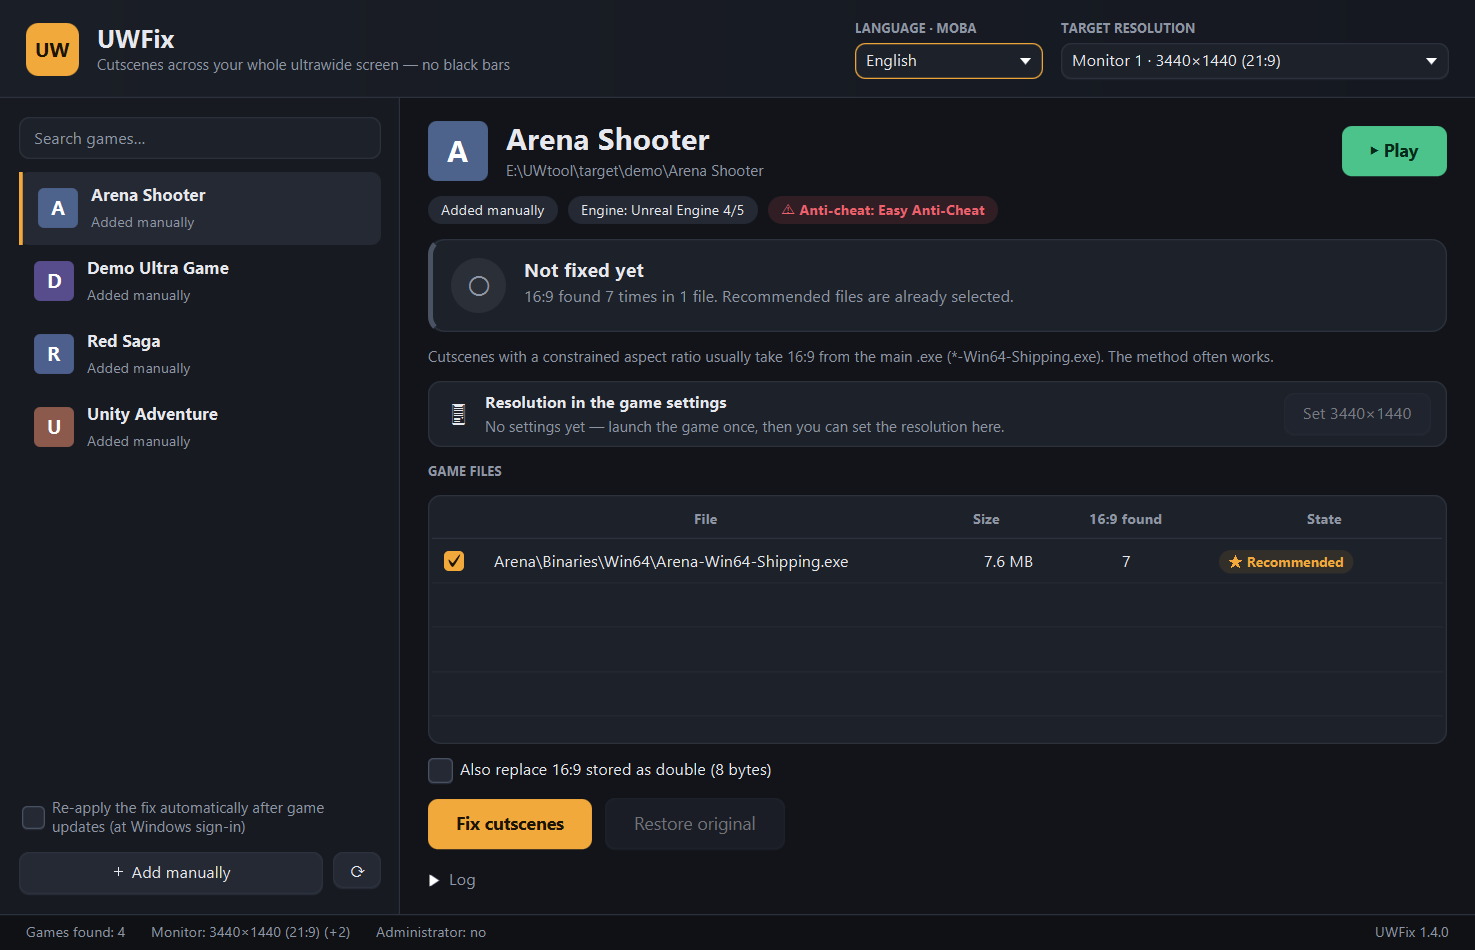
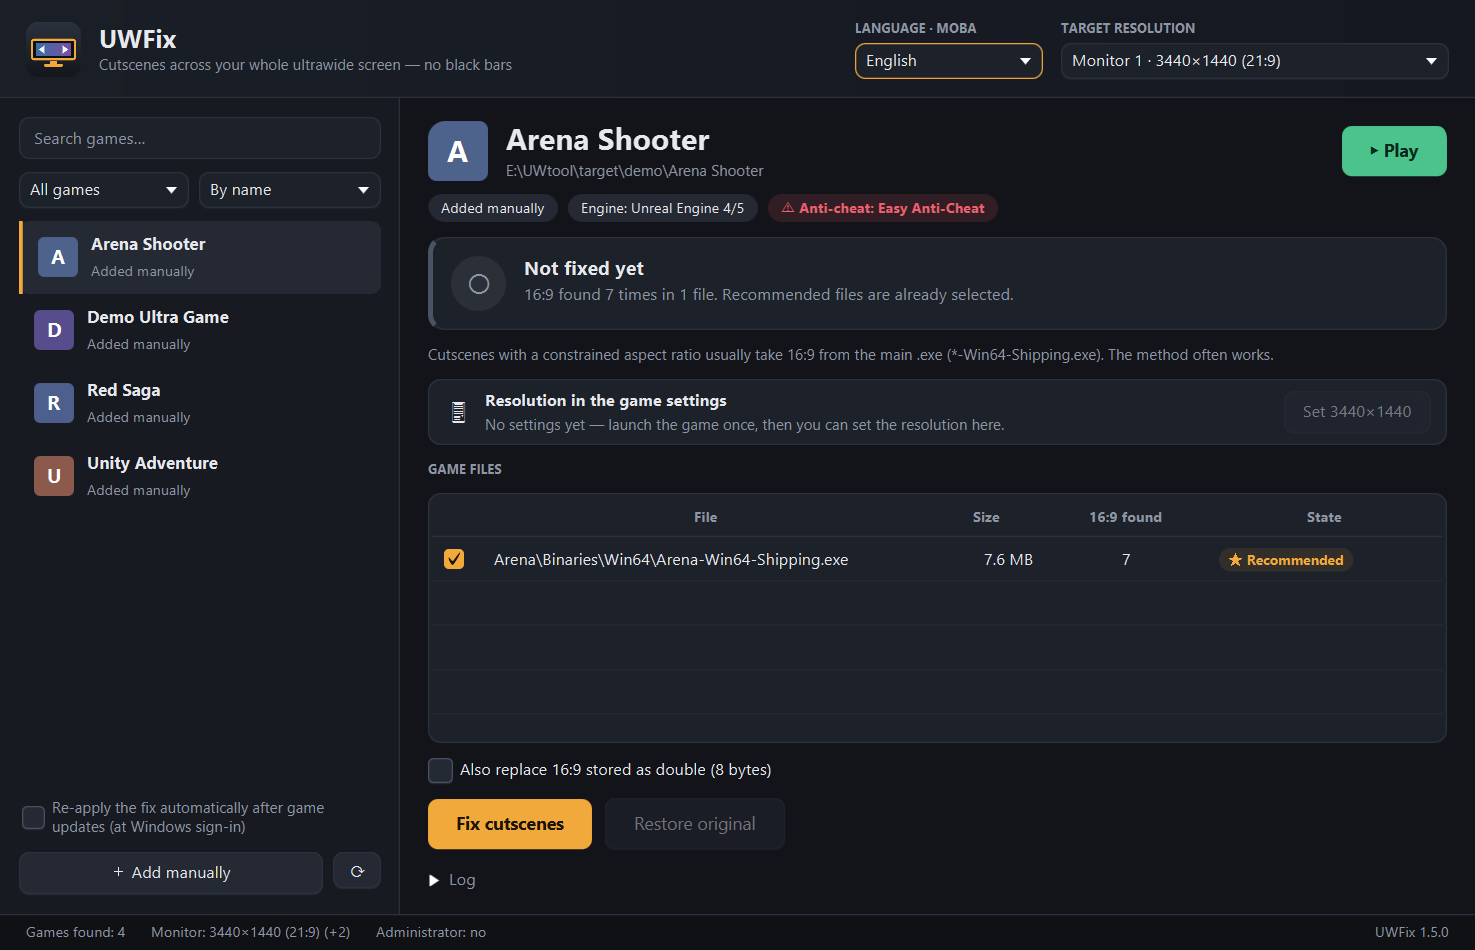
Версія 1.5.0: обкладинки, фільтри й сортування, іконка в шапці
- README: обкладинки ігор, пошук/фільтри/сортування, 157 тестів
- оновлено знімки екрана

diff --git a/README.uk.md b/README.uk.md
@@ -31,7 +31,8 @@ UWFix робить це автоматично й безпечно. **Підхо
 ## Можливості
 
 - **Пошук ігор**: Steam (усі бібліотеки на всіх дисках), Epic Games, GOG, Ubisoft Connect, а також ручне додавання будь-якої папки.
-- **Іконки ігор**: для Steam-ігор — з локального кешу Steam, для інших — прямо з .exe гри (програма сама розбирає таблицю ресурсів формату Windows PE).
+- **Іконки та обкладинки ігор**: для Steam-ігор — іконка, фонове зображення й логотип з локального кешу Steam, для інших — іконка прямо з .exe гри (програма сама розбирає таблицю ресурсів формату Windows PE).
+- **Пошук, фільтри й сортування**: пошук не чутливий до регістру й розділових знаків; показ усіх / виправлених / не виправлених / оновлених ігор; сортування за назвою (за українською абеткою), лаунчером або спершу виправлені.
 - **Визначення моніторів**: усі підключені монітори визначаються автоматично з урахуванням масштабування Windows; можна обрати іншу роздільну здатність або ввести свою.
 - **Аналіз гри**: знаходить .exe і .dll з числом 16:9, відкидає сторонні бібліотеки (Steam API, DirectX, PhysX…), визначає рушій (Unreal Engine 3/4/5, Unity, REDengine) і радить, які файли змінювати.
 - **Безпечна заміна**:
@@ -144,7 +145,7 @@ flowchart LR
 
 ## Тестування
 
-151 модульний тест (JUnit 5): перетворення співвідношень у байти, три алгоритми пошуку (порівняння з еталоном на випадкових даних), потокове сканування з різними розмірами блоку, парсери VDF / .reg / JSON, вибір файлів для різних рушіїв, повний цикл «патч → оновлення гри → повторне застосування → відновлення», пошкоджений файл стану, повнота перекладу (однакові ключі й параметри в обох мовах), порівняння версій і безпечне розпакування оновлень (зокрема архівів зі шляхами за межі папки), видобування іконок із синтетичного PE-файлу (PNG і BMP з маскою прозорості).
+157 модульних тестів (JUnit 5): перетворення співвідношень у байти, три алгоритми пошуку (порівняння з еталоном на випадкових даних), потокове сканування з різними розмірами блоку, парсери VDF / .reg / JSON, вибір файлів для різних рушіїв, повний цикл «патч → оновлення гри → повторне застосування → відновлення», пошкоджений файл стану, повнота перекладу (однакові ключі й параметри в обох мовах), порівняння версій і безпечне розпакування оновлень (зокрема архівів зі шляхами за межі папки), видобування іконок із синтетичного PE-файлу (PNG і BMP з маскою прозорості).
 
 Порівняння алгоритмів на 128 МБ даних, схожих на машинний код (`mvnw test -Pbenchmark`):
 

diff --git a/README.md b/README.md
@@ -31,7 +31,8 @@ not taken from a fixed table.
 ## Features
 
 - **Game discovery**: Steam (all libraries on all drives), Epic Games, GOG, Ubisoft Connect, plus any folder added manually.
-- **Game icons**: Steam games get their icon from Steam's local cache, other games — straight from the game's .exe (the app parses the Windows PE resource table itself).
+- **Game icons and cover art**: Steam games get their icon, background art and logo from Steam's local cache, other games — an icon straight from the game's .exe (the app parses the Windows PE resource table itself).
+- **Search, filters and sorting**: search ignores case and punctuation; show all / fixed / not fixed / updated games; sort by name (Ukrainian alphabet aware), launcher or fixed first.
 - **Monitor detection**: every connected monitor is detected automatically, taking Windows scaling into account; you can pick another resolution or enter your own.
 - **Game analysis**: finds .exe and .dll files containing 16:9, skips third-party libraries (Steam API, DirectX, PhysX…), detects the engine (Unreal Engine 3/4/5, Unity, REDengine) and suggests which files to patch.
 - **Safe patching**:
@@ -138,7 +139,7 @@ flowchart LR
 
 ## Testing
 
-151 unit tests (JUnit 5): ratio-to-bytes conversion, three search algorithms (checked against a reference
+157 unit tests (JUnit 5): ratio-to-bytes conversion, three search algorithms (checked against a reference
 on random data), streaming scan with various chunk sizes, VDF / .reg / JSON parsers, file selection for
 different engines, the full “patch → game update → re-apply → restore” cycle, a corrupted state file,
 translation completeness (same keys and parameters in both languages), version comparison and safe unpacking of updates (including archives with paths escaping the folder), icon extraction from a synthetic PE file (PNG and BMP icons with a transparency mask).
